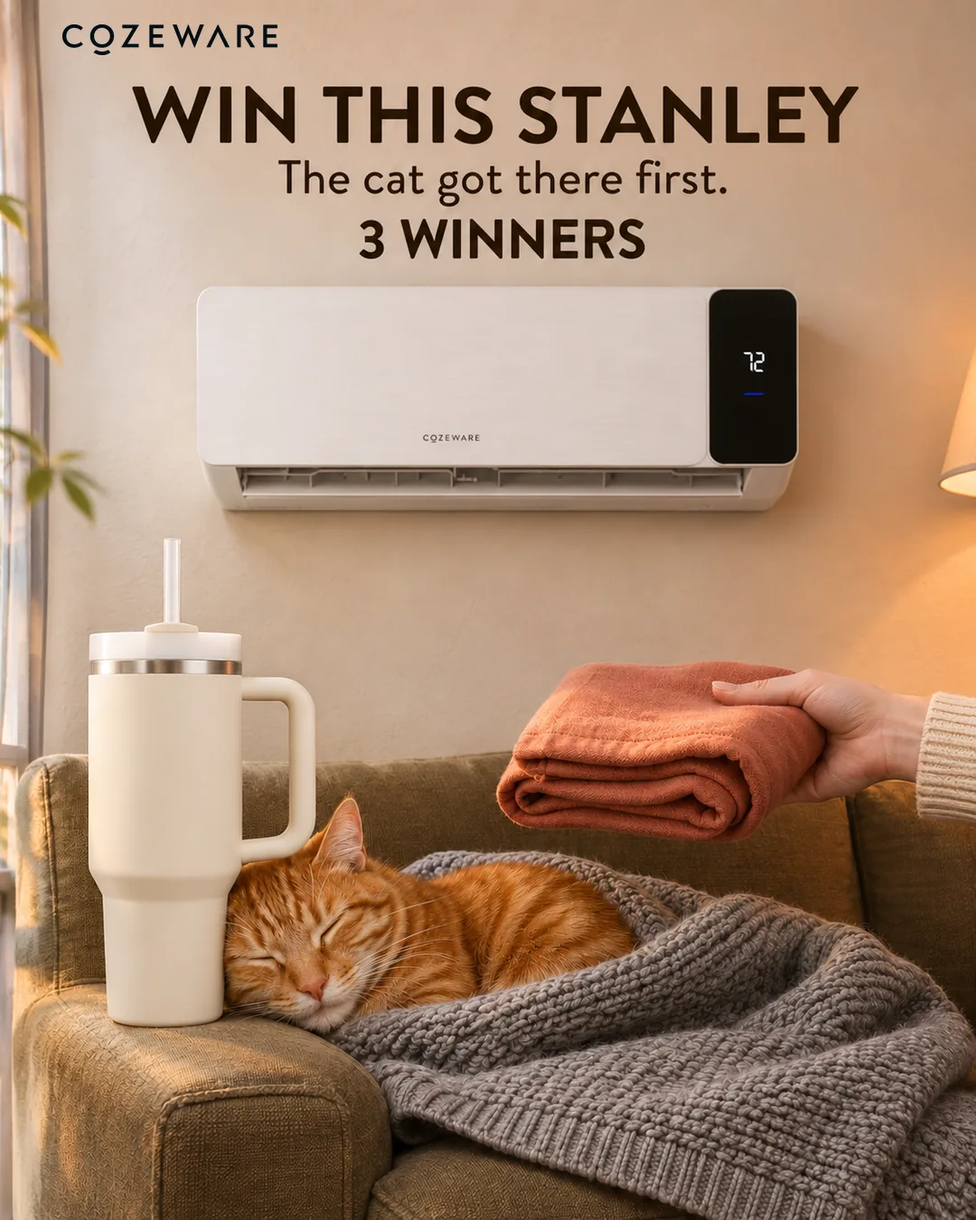
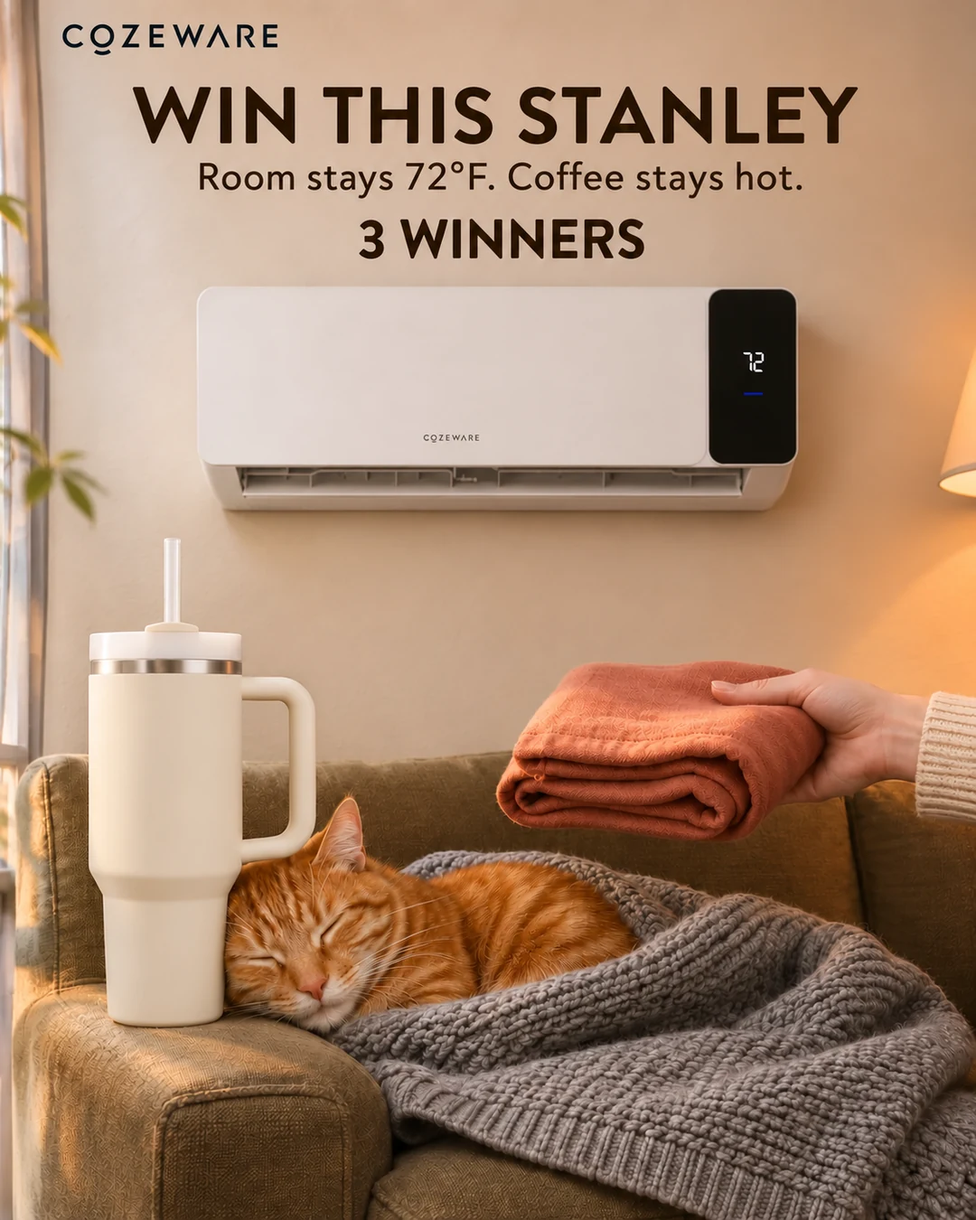
Giveaway round 1: one entry per person, per-platform steps, prize-product hooks, Stanley image subline, set Ready

diff --git a/feed-oedro.html b/feed-oedro.html
@@ -590,59 +590,63 @@ Who in your house uses the step the most?</p></div>
 </section>
 <section class="feed-day" data-date="2026-11-27" id="day-2026-11-27" aria-labelledby="title-2026-11-27">
 <h2 id="title-2026-11-27"><span class="day-date">11月27日</span><span class="day-week">周五</span></h2>
-<article class="post" data-post="OE-1125-GIVEAWAY-LAUNCH" data-purpose="giveaway user-campaign tonneau-cover" data-schedule-status="In review – do not post yet" id="post-OE-1125-GIVEAWAY-LAUNCH">
+<article class="post" data-post="OE-1125-GIVEAWAY-LAUNCH" data-purpose="giveaway user-campaign tonneau-cover" data-schedule-status="Ready to post" id="post-OE-1125-GIVEAWAY-LAUNCH">
 <div class="post-media">
 <button class="feed-large" type="button" aria-label="查看大图" data-title="Giveaway: win a LEGO Ferrari 488 Pista" data-pages="assets/feed/oedro-oe-1125-giveaway-launch/1.webp"><img src="assets/feed/oedro-oe-1125-giveaway-launch/1.webp" alt="Giveaway: win a LEGO Ferrari 488 Pista" width="1080" height="1350" loading="lazy"></button>
 </div>
 <div class="post-body">
 <h3 lang="en">Giveaway: win a LEGO Ferrari 488 Pista</h3>
-<p class="post-context"><span class="post-status" data-status="review">待审 <span lang="en">In review</span></span> · <span lang="en">2026-11-27 12:00 EST</span> · 首发抽奖帖，11月27日发，规则链接在配文里，图上没有规则</p>
+<p class="post-context"><span class="post-status" data-status="ready">可发 <span lang="en">Ready to post</span></span> · <span lang="en">2026-11-27 12:00 EST</span> · 首发抽奖帖，11月27日发，规则链接在配文里，图上没有规则</p>
 <div class="post-platforms"><div class="post-platform-switch" role="group" aria-label="平台"><button type="button" data-platform="Instagram" aria-pressed="true">Instagram</button><button type="button" data-platform="Facebook" aria-pressed="false">Facebook</button><button type="button" data-platform="X" aria-pressed="false">X</button><button type="button" data-platform="Threads" aria-pressed="false">Threads</button></div><button type="button" class="post-copy">复制配文</button></div>
-<div class="post-caption" data-feed-platform="Instagram"><p class="feed-caption" lang="en">There&#x27;s always one friend who says they&#x27;re &quot;just looking&quot; and then holds the thing for twenty minutes. 🏎
+<div class="post-caption" data-feed-platform="Instagram"><p class="feed-caption" lang="en">You upgrade your truck one part at a time. This one you build one brick at a time.
 
-We parked a LEGO® Technic Ferrari 488 Pista on one of our tonneau covers, and that is exactly what happened. Three of you will each win a set of your own.
+Three of you will each win a LEGO® Technic Ferrari 488 Pista. 🏎
 
-Tell us in the comments: who&#x27;s the friend that can&#x27;t walk past a truck bed without touching everything on it? 👇
+How to enter:
+1. Follow @oedroautoparts
+2. Like this post
+3. Comment and tag one friend who would build it first
 
-To enter, follow us, like this post and tag that friend in a comment. Share this post to your Instagram Story and tag @oedroautoparts for a second entry.
-Free to enter, no purchase necessary. Open to legal residents of the 48 contiguous states and DC, 18 or older and of legal age where they live. Ends Dec 1 at 11:59 p.m. ET.
-Not sponsored or endorsed by Instagram, LEGO or Ferrari.
-Full rules: https://docs.google.com/document/d/e/2PACX-1vTVTzLQbo1QuHDgQ35lVmwLayXdMdV7gTEt_JbZuzMsi030L79SKqfQ4Pwmyk17sBf4nWmCCtIYP62_/pub
+No purchase necessary. One entry per person. Open to the 48 contiguous states and DC, 18 or older. Ends Dec 1, 11:59 p.m. ET. Not sponsored by Instagram/Meta, LEGO or Ferrari.
+Official rules: link in bio
 
-#OEDRO #Giveaway #LEGOTechnic #Ferrari488Pista #TruckLife</p></div>
-<div class="post-caption" data-feed-platform="Facebook" hidden><p class="feed-caption" lang="en">There&#x27;s always one friend who says they&#x27;re &quot;just looking&quot; and then holds the thing for twenty minutes.
+#OEDROGiveaway #Giveaway #TruckLife</p></div>
+<div class="post-caption" data-feed-platform="Facebook" hidden><p class="feed-caption" lang="en">You upgrade your truck one part at a time. This one you build one brick at a time.
 
-We parked a LEGO® Technic Ferrari 488 Pista on one of our tonneau covers, and that is exactly what happened. Three of you will each win a set of your own.
+Three of you will each win a LEGO® Technic Ferrari 488 Pista.
 
-Tell us in the comments: who&#x27;s the friend that can&#x27;t walk past a truck bed without touching everything on it?
+How to enter:
+1. Follow our OEDRO page
+2. Like this post
+3. Comment: what&#x27;s the last thing you built in the garage?
 
-To enter, follow our OEDRO page, like this post and tag that friend by writing their name in a comment.
-Free to enter, no purchase necessary. Open to legal residents of the 48 contiguous states and DC, 18 or older and of legal age where they live. Ends Dec 1 at 11:59 p.m. ET.
-Not sponsored or endorsed by Facebook, LEGO or Ferrari.
-Full rules: https://docs.google.com/document/d/e/2PACX-1vTVTzLQbo1QuHDgQ35lVmwLayXdMdV7gTEt_JbZuzMsi030L79SKqfQ4Pwmyk17sBf4nWmCCtIYP62_/pub</p></div>
-<div class="post-caption" data-feed-platform="X" hidden><p class="feed-caption" lang="en">A friend who&#x27;s &quot;just looking&quot; at the LEGO® Technic Ferrari on our tonneau cover is never just looking. Three of you win one. Follow @Oedroautoparts, like this and reply tagging that friend. Free, no purchase necessary, ends Dec 1, 11:59 p.m. ET. Rules: https://docs.google.com/document/d/e/2PACX-1vTVTzLQbo1QuHDgQ35lVmwLayXdMdV7gTEt_JbZuzMsi030L79SKqfQ4Pwmyk17sBf4nWmCCtIYP62_/pub</p></div>
-<div class="post-caption" data-feed-platform="Threads" hidden><p class="feed-caption" lang="en">Every driveway has a friend who&#x27;s &quot;just looking&quot; at the new thing and then holds it for twenty minutes. We parked a LEGO® Technic Ferrari 488 Pista on our tonneau cover and it happened again. Three of you win one.
+No purchase necessary. One entry per person. Open to the 48 contiguous states and DC, 18 or older. Ends Dec 1, 11:59 p.m. ET. Not sponsored by Facebook/Meta, LEGO or Ferrari.
+Official rules: https://docs.google.com/document/d/e/2PACX-1vTVTzLQbo1QuHDgQ35lVmwLayXdMdV7gTEt_JbZuzMsi030L79SKqfQ4Pwmyk17sBf4nWmCCtIYP62_/pub</p></div>
+<div class="post-caption" data-feed-platform="X" hidden><p class="feed-caption" lang="en">You upgrade your truck one part at a time. This one you build one brick at a time. Win a LEGO® Technic Ferrari 488 Pista. Follow @Oedroautoparts, like and repost. One entry each. No purchase necessary. US, 18 or older. Ends Dec 1, 11:59 p.m. ET. Rules: https://docs.google.com/document/d/e/2PACX-1vTVTzLQbo1QuHDgQ35lVmwLayXdMdV7gTEt_JbZuzMsi030L79SKqfQ4Pwmyk17sBf4nWmCCtIYP62_/pub</p></div>
+<div class="post-caption" data-feed-platform="Threads" hidden><p class="feed-caption" lang="en">You upgrade your truck one part at a time. This one you build one brick at a time.
 
-Follow @oedroautoparts, like this post and reply tagging that friend. Free to enter, no purchase necessary, ends Dec 1 at 11:59 p.m. ET. Full rules: https://docs.google.com/document/d/e/2PACX-1vTVTzLQbo1QuHDgQ35lVmwLayXdMdV7gTEt_JbZuzMsi030L79SKqfQ4Pwmyk17sBf4nWmCCtIYP62_/pub</p></div>
+Win a LEGO® Technic Ferrari 488 Pista. Follow @oedroautoparts, like this post and reply to enter.
+
+No purchase necessary. One entry per person. Open to the 48 contiguous states and DC, 18 or older. Ends Dec 1, 11:59 p.m. ET. Official rules: https://docs.google.com/document/d/e/2PACX-1vTVTzLQbo1QuHDgQ35lVmwLayXdMdV7gTEt_JbZuzMsi030L79SKqfQ4Pwmyk17sBf4nWmCCtIYP62_/pub</p></div>
 <p class="post-links"><a href="https://hsbrxlb.github.io/user-ops-hub/assets/feed/oedro-oe-1125-giveaway-launch/1.webp" lang="en">Images</a></p>
 </div>
 </article>
-<article class="post" data-post="OE-1125-GIVEAWAY-STORY" data-purpose="giveaway user-campaign floor-mats" data-schedule-status="In review – do not post yet" id="post-OE-1125-GIVEAWAY-STORY">
+<article class="post" data-post="OE-1125-GIVEAWAY-STORY" data-purpose="giveaway user-campaign floor-mats" data-schedule-status="Ready to post" id="post-OE-1125-GIVEAWAY-STORY">
 <div class="post-media">
 <button class="feed-large" type="button" aria-label="查看大图" data-title="Giveaway story: win a LEGO Ferrari" data-pages="assets/feed/oedro-oe-1125-giveaway-story/1.webp"><img src="assets/feed/oedro-oe-1125-giveaway-story/1.webp" alt="Giveaway story: win a LEGO Ferrari" width="1080" height="1920" loading="lazy"></button>
 </div>
 <div class="post-body">
 <h3 lang="en">Giveaway story: win a LEGO Ferrari</h3>
-<p class="post-context"><span class="post-status" data-status="review">待审 <span lang="en">In review</span></span> · <span lang="en">2026-11-27 12:30 EST</span> · <span class="post-placement" lang="en">Instagram Stories</span> · 首发快拍，发完首发帖后30分钟发，规则链接放链接贴纸</p>
+<p class="post-context"><span class="post-status" data-status="ready">可发 <span lang="en">Ready to post</span></span> · <span lang="en">2026-11-27 12:30 EST</span> · <span class="post-placement" lang="en">Instagram Stories</span> · 首发快拍，发完首发帖后30分钟发，规则链接放链接贴纸</p>
 <div class="post-platforms"><div class="post-platform-switch" role="group" aria-label="平台"><button type="button" data-platform="Instagram" aria-pressed="true">Instagram</button><button type="button" data-platform="Facebook" aria-pressed="false">Facebook</button><button type="button" data-platform="X" aria-pressed="false">X</button><button type="button" data-platform="Threads" aria-pressed="false">Threads</button></div><button type="button" class="post-copy">复制配文</button></div>
-<div class="post-caption" data-feed-platform="Instagram"><p class="feed-caption" lang="en">A LEGO® Ferrari in the truck, our floor liner underneath. Three of you win one.
-Follow us, like our giveaway post and comment tagging a friend to enter.
-Free, no purchase necessary, ends Dec 1, 11:59 p.m. ET. Rules in the link sticker: https://docs.google.com/document/d/e/2PACX-1vTVTzLQbo1QuHDgQ35lVmwLayXdMdV7gTEt_JbZuzMsi030L79SKqfQ4Pwmyk17sBf4nWmCCtIYP62_/pub</p></div>
-<div class="post-caption" data-feed-platform="Facebook" hidden><p class="feed-caption" lang="en">A LEGO® Ferrari in the truck, our floor liner underneath. Three of you win one.
-Follow our page, like our giveaway post and tag a friend by writing their name in a comment to enter.
-Free, no purchase necessary, ends Dec 1, 11:59 p.m. ET. Rules: https://docs.google.com/document/d/e/2PACX-1vTVTzLQbo1QuHDgQ35lVmwLayXdMdV7gTEt_JbZuzMsi030L79SKqfQ4Pwmyk17sBf4nWmCCtIYP62_/pub</p></div>
-<div class="post-caption" data-feed-platform="X" hidden><p class="feed-caption" lang="en">A LEGO® Ferrari in the truck, our floor liner underneath. Three of you win one. Follow us, like our giveaway post and reply tagging a friend to enter. Free, no purchase necessary, ends Dec 1, 11:59 p.m. ET. Rules: https://docs.google.com/document/d/e/2PACX-1vTVTzLQbo1QuHDgQ35lVmwLayXdMdV7gTEt_JbZuzMsi030L79SKqfQ4Pwmyk17sBf4nWmCCtIYP62_/pub</p></div>
-<div class="post-caption" data-feed-platform="Threads" hidden><p class="feed-caption" lang="en">A LEGO® Ferrari in the truck, our floor liner underneath. Three of you win one. Follow us, like our giveaway post and reply tagging a friend to enter. Free, no purchase necessary, ends Dec 1, 11:59 p.m. ET. Rules: https://docs.google.com/document/d/e/2PACX-1vTVTzLQbo1QuHDgQ35lVmwLayXdMdV7gTEt_JbZuzMsi030L79SKqfQ4Pwmyk17sBf4nWmCCtIYP62_/pub</p></div>
+<div class="post-caption" data-feed-platform="Instagram"><p class="feed-caption" lang="en">LEGO® Ferrari for three of you. You build it one brick at a time.
+One entry per person: follow us, like the giveaway post and comment tagging one friend there.
+No purchase necessary, ends Dec 1, 11:59 p.m. ET. Rules in the link sticker: https://docs.google.com/document/d/e/2PACX-1vTVTzLQbo1QuHDgQ35lVmwLayXdMdV7gTEt_JbZuzMsi030L79SKqfQ4Pwmyk17sBf4nWmCCtIYP62_/pub</p></div>
+<div class="post-caption" data-feed-platform="Facebook" hidden><p class="feed-caption" lang="en">LEGO® Ferrari for three of you. You build it one brick at a time.
+One entry per person: follow our page, like the giveaway post and comment there.
+No purchase necessary, ends Dec 1, 11:59 p.m. ET. Rules: https://docs.google.com/document/d/e/2PACX-1vTVTzLQbo1QuHDgQ35lVmwLayXdMdV7gTEt_JbZuzMsi030L79SKqfQ4Pwmyk17sBf4nWmCCtIYP62_/pub</p></div>
+<div class="post-caption" data-feed-platform="X" hidden><p class="feed-caption" lang="en">LEGO® Ferrari for three of you. You build it one brick at a time. One entry per person: follow us, like the giveaway post and repost it. No purchase necessary, ends Dec 1, 11:59 p.m. ET. Rules: https://docs.google.com/document/d/e/2PACX-1vTVTzLQbo1QuHDgQ35lVmwLayXdMdV7gTEt_JbZuzMsi030L79SKqfQ4Pwmyk17sBf4nWmCCtIYP62_/pub</p></div>
+<div class="post-caption" data-feed-platform="Threads" hidden><p class="feed-caption" lang="en">LEGO® Ferrari for three of you. You build it one brick at a time. One entry per person: follow us, like the giveaway post and reply to it. No purchase necessary, ends Dec 1, 11:59 p.m. ET. Rules: https://docs.google.com/document/d/e/2PACX-1vTVTzLQbo1QuHDgQ35lVmwLayXdMdV7gTEt_JbZuzMsi030L79SKqfQ4Pwmyk17sBf4nWmCCtIYP62_/pub</p></div>
 <p class="post-links"><a href="https://hsbrxlb.github.io/user-ops-hub/assets/feed/oedro-oe-1125-giveaway-story/1.webp" lang="en">Images</a></p>
 </div>
 </article>
@@ -799,40 +803,42 @@ What&#x27;s the tailgate rule nobody is allowed to break?</p></div>
 </section>
 <section class="feed-day" data-date="2026-12-01" id="day-2026-12-01" aria-labelledby="title-2026-12-01">
 <h2 id="title-2026-12-01"><span class="day-date">12月1日</span><span class="day-week">周二</span></h2>
-<article class="post" data-post="OE-1201-GIVEAWAY-REMINDER" data-purpose="giveaway user-campaign" data-schedule-status="In review – do not post yet" id="post-OE-1201-GIVEAWAY-REMINDER">
+<article class="post" data-post="OE-1201-GIVEAWAY-REMINDER" data-purpose="giveaway user-campaign" data-schedule-status="Ready to post" id="post-OE-1201-GIVEAWAY-REMINDER">
 <div class="post-media">
 <button class="feed-large" type="button" aria-label="查看大图" data-title="Last call: LEGO Ferrari giveaway ends tonight" data-pages="assets/feed/oedro-oe-1201-giveaway-reminder/1.webp"><img src="assets/feed/oedro-oe-1201-giveaway-reminder/1.webp" alt="Last call: LEGO Ferrari giveaway ends tonight" width="1080" height="1350" loading="lazy"></button>
 </div>
 <div class="post-body">
 <h3 lang="en">Last call: LEGO Ferrari giveaway ends tonight</h3>
-<p class="post-context"><span class="post-status" data-status="review">待审 <span lang="en">In review</span></span> · <span lang="en">2026-12-01 09:00 EST</span></p>
+<p class="post-context"><span class="post-status" data-status="ready">可发 <span lang="en">Ready to post</span></span> · <span lang="en">2026-12-01 09:00 EST</span></p>
 <div class="post-platforms"><div class="post-platform-switch" role="group" aria-label="平台"><button type="button" data-platform="Instagram" aria-pressed="true">Instagram</button><button type="button" data-platform="Facebook" aria-pressed="false">Facebook</button><button type="button" data-platform="X" aria-pressed="false">X</button><button type="button" data-platform="Threads" aria-pressed="false">Threads</button></div><button type="button" class="post-copy">复制配文</button></div>
-<div class="post-caption" data-feed-platform="Instagram"><p class="feed-caption" lang="en">One of these guys has been checking his watch since lunch, and the other one finds that hilarious. ⏰
+<div class="post-caption" data-feed-platform="Instagram"><p class="feed-caption" lang="en">One of these guys has been checking his watch since lunch, and the other finds that hilarious. ⏰
 
-Our giveaway closes tonight. At 11:59 p.m. ET we close the entries, and three of you will each win a LEGO® Technic Ferrari 488 Pista. It&#x27;s still parked on our tonneau cover, waiting on three new garages.
+Last call: three of you win a LEGO® Technic Ferrari 488 Pista, built one brick at a time. Entries close tonight.
 
-Haven&#x27;t entered yet? Tell us on the giveaway post: which friend has your tailgate down before you&#x27;ve even parked? 👇
+How to enter:
+1. Follow @oedroautoparts
+2. Like the giveaway post
+3. Comment on it tagging one friend
 
-To enter, follow us, like this giveaway post and tag that friend in a comment. Share the giveaway post to your Instagram Story and tag @oedroautoparts for a second entry.
-Free to enter, no purchase necessary. Open to legal residents of the 48 contiguous states and DC, 18 or older and of legal age where they live. Ends tonight, Dec 1, at 11:59 p.m. ET.
-Not sponsored or endorsed by Instagram, LEGO or Ferrari.
-Full rules: https://docs.google.com/document/d/e/2PACX-1vTVTzLQbo1QuHDgQ35lVmwLayXdMdV7gTEt_JbZuzMsi030L79SKqfQ4Pwmyk17sBf4nWmCCtIYP62_/pub
+No purchase necessary. One entry per person. Open to the 48 contiguous states and DC, 18 or older. Ends tonight, Dec 1, at 11:59 p.m. ET. Not sponsored by Instagram/Meta, LEGO or Ferrari.
+Official rules: link in bio
 
-#OEDRO #Giveaway #LEGOTechnic #LastCall</p></div>
-<div class="post-caption" data-feed-platform="Facebook" hidden><p class="feed-caption" lang="en">One of these guys has been checking his watch since lunch, and the other one finds that hilarious.
+#OEDROGiveaway #Giveaway #TruckLife</p></div>
+<div class="post-caption" data-feed-platform="Facebook" hidden><p class="feed-caption" lang="en">One of these guys has been checking his watch since lunch, and the other finds that hilarious.
 
-Our giveaway closes tonight. At 11:59 p.m. ET we close the entries, and three of you will each win a LEGO® Technic Ferrari 488 Pista. It&#x27;s still parked on our tonneau cover, waiting on three new garages.
+Last call: three of you win a LEGO® Technic Ferrari 488 Pista, built one brick at a time. Entries close tonight.
 
-Haven&#x27;t entered yet? Tell us on the giveaway post: which friend has your tailgate down before you&#x27;ve even parked?
+How to enter:
+1. Follow our OEDRO page
+2. Like the giveaway post
+3. Comment on it
 
-To enter, follow our OEDRO page, like the giveaway post and tag that friend by writing their name in a comment.
-Free to enter, no purchase necessary. Open to legal residents of the 48 contiguous states and DC, 18 or older and of legal age where they live. Ends tonight, Dec 1, at 11:59 p.m. ET.
-Not sponsored or endorsed by Facebook, LEGO or Ferrari.
-Full rules: https://docs.google.com/document/d/e/2PACX-1vTVTzLQbo1QuHDgQ35lVmwLayXdMdV7gTEt_JbZuzMsi030L79SKqfQ4Pwmyk17sBf4nWmCCtIYP62_/pub</p></div>
-<div class="post-caption" data-feed-platform="X" hidden><p class="feed-caption" lang="en">Giveaway closes tonight, Dec 1, at 11:59 p.m. ET. Three of you win a LEGO® Technic Ferrari 488 Pista. Follow @Oedroautoparts, like the giveaway post and reply tagging a friend. Free, no purchase necessary. Rules: https://docs.google.com/document/d/e/2PACX-1vTVTzLQbo1QuHDgQ35lVmwLayXdMdV7gTEt_JbZuzMsi030L79SKqfQ4Pwmyk17sBf4nWmCCtIYP62_/pub</p></div>
-<div class="post-caption" data-feed-platform="Threads" hidden><p class="feed-caption" lang="en">One guy has been checking his watch since lunch while his buddy laughs. Our LEGO® Technic Ferrari 488 Pista giveaway closes tonight, and three of you will win one.
+No purchase necessary. One entry per person. Open to the 48 contiguous states and DC, 18 or older. Ends tonight, Dec 1, at 11:59 p.m. ET. Not sponsored by Facebook/Meta, LEGO or Ferrari.
+Official rules: https://docs.google.com/document/d/e/2PACX-1vTVTzLQbo1QuHDgQ35lVmwLayXdMdV7gTEt_JbZuzMsi030L79SKqfQ4Pwmyk17sBf4nWmCCtIYP62_/pub</p></div>
+<div class="post-caption" data-feed-platform="X" hidden><p class="feed-caption" lang="en">Last call: three of you win a LEGO® Technic Ferrari 488 Pista, built one brick at a time. Follow @Oedroautoparts, like the giveaway post and repost it. One entry per person, no purchase necessary, ends tonight, Dec 1, 11:59 p.m. ET. Rules: https://docs.google.com/document/d/e/2PACX-1vTVTzLQbo1QuHDgQ35lVmwLayXdMdV7gTEt_JbZuzMsi030L79SKqfQ4Pwmyk17sBf4nWmCCtIYP62_/pub</p></div>
+<div class="post-caption" data-feed-platform="Threads" hidden><p class="feed-caption" lang="en">Last call: three of you win a LEGO® Technic Ferrari 488 Pista, built one brick at a time. Follow @oedroautoparts, like the giveaway post and reply to it.
 
-Follow @oedroautoparts, like the giveaway post and reply tagging a friend. Free to enter, no purchase necessary, ends tonight, Dec 1, at 11:59 p.m. ET. Full rules: https://docs.google.com/document/d/e/2PACX-1vTVTzLQbo1QuHDgQ35lVmwLayXdMdV7gTEt_JbZuzMsi030L79SKqfQ4Pwmyk17sBf4nWmCCtIYP62_/pub</p></div>
+No purchase necessary. One entry per person. Open to the 48 contiguous states and DC, 18 or older. Ends tonight, Dec 1, at 11:59 p.m. ET. Official rules: https://docs.google.com/document/d/e/2PACX-1vTVTzLQbo1QuHDgQ35lVmwLayXdMdV7gTEt_JbZuzMsi030L79SKqfQ4Pwmyk17sBf4nWmCCtIYP62_/pub</p></div>
 <p class="post-links"><a href="https://hsbrxlb.github.io/user-ops-hub/assets/feed/oedro-oe-1201-giveaway-reminder/1.webp" lang="en">Images</a></p>
 </div>
 </article>

diff --git a/feed-cozeware.html b/feed-cozeware.html
@@ -383,59 +383,63 @@ How many hours was your longest session?</p></div>
 </section>
 <section class="feed-day" data-date="2026-11-27" id="day-2026-11-27" aria-labelledby="title-2026-11-27">
 <h2 id="title-2026-11-27"><span class="day-date">11月27日</span><span class="day-week">周五</span></h2>
-<article class="post" data-post="CZ-1125-GIVEAWAY-LAUNCH" data-purpose="giveaway user-campaign ac" data-schedule-status="In review – do not post yet" id="post-CZ-1125-GIVEAWAY-LAUNCH">
+<article class="post" data-post="CZ-1125-GIVEAWAY-LAUNCH" data-purpose="giveaway user-campaign ac" data-schedule-status="Ready to post" id="post-CZ-1125-GIVEAWAY-LAUNCH">
 <div class="post-media">
 <button class="feed-large" type="button" aria-label="查看大图" data-title="Giveaway: win a Stanley Quencher" data-pages="assets/feed/cozeware-ac-cz-1125-giveaway-launch/1.webp"><img src="assets/feed/cozeware-ac-cz-1125-giveaway-launch/1.webp" alt="Giveaway: win a Stanley Quencher" width="1080" height="1350" loading="lazy"></button>
 </div>
 <div class="post-body">
 <h3 lang="en">Giveaway: win a Stanley Quencher</h3>
-<p class="post-context"><span class="post-status" data-status="review">待审 <span lang="en">In review</span></span> · <span lang="en">2026-11-27 12:00 EST</span> · 首发抽奖帖，11月27日发，规则链接在配文里，图上没有规则</p>
+<p class="post-context"><span class="post-status" data-status="ready">可发 <span lang="en">Ready to post</span></span> · <span lang="en">2026-11-27 12:00 EST</span> · 首发抽奖帖，11月27日发，规则链接在配文里，图上没有规则</p>
 <div class="post-platforms"><div class="post-platform-switch" role="group" aria-label="平台"><button type="button" data-platform="Instagram" aria-pressed="true">Instagram</button><button type="button" data-platform="Facebook" aria-pressed="false">Facebook</button><button type="button" data-platform="X" aria-pressed="false">X</button><button type="button" data-platform="Threads" aria-pressed="false">Threads</button></div><button type="button" class="post-copy">复制配文</button></div>
-<div class="post-caption" data-feed-platform="Instagram"><p class="feed-caption" lang="en">You shouldn&#x27;t have to wake a sleeping cat just to reach your water. 🐈
+<div class="post-caption" data-feed-platform="Instagram"><p class="feed-caption" lang="en">Your Cozeware keeps the room just right. This Stanley keeps your drink just right.
 
-So we&#x27;re sending three of you a cup of your own: a Stanley Quencher H2.0 FlowState Tumbler, 40 oz, one for each winner. Ours is on the sofa arm, and the cat has already claimed it.
+Three of you will each win a Stanley Quencher H2.0 FlowState Tumbler, 40 oz. ☕
 
-Tell us in the comments: what would you offer your cat to get your cup back? 👇
+How to enter:
+1. Follow @cozeware
+2. Like this post
+3. Comment and tag one friend who needs one
 
-To enter, follow us, like this post and tag one friend in a comment. Share this post to your Instagram Story and tag @cozeware for a second entry.
-Free to enter, no purchase necessary. Open to legal residents of the 48 contiguous states and DC, 18 or older and of legal age where they live. Ends Dec 1 at 11:59 p.m. ET.
-Not sponsored or endorsed by Instagram or Stanley.
-Full rules: https://docs.google.com/document/d/e/2PACX-1vSwZRbZrCTI3KDqqRJoG4kTua6yApjQf0kZZ59c3eEgL8usKZe7TcieI41_sW6fOPFJgLnOfmfHs7OM/pub
+No purchase necessary. One entry per person. Open to the 48 contiguous states and DC, 18 or older. Ends Dec 1, 11:59 p.m. ET. Not sponsored by Instagram/Meta or Stanley.
+Official rules: link in bio
 
-#Cozeware #Giveaway #StanleyQuencher #CozyHome</p></div>
-<div class="post-caption" data-feed-platform="Facebook" hidden><p class="feed-caption" lang="en">You shouldn&#x27;t have to wake a sleeping cat just to reach your water.
+#CozewareGiveaway #Giveaway #CozyHome</p></div>
+<div class="post-caption" data-feed-platform="Facebook" hidden><p class="feed-caption" lang="en">Your Cozeware keeps the room just right. This Stanley keeps your drink just right.
 
-So we&#x27;re sending three of you a cup of your own: a Stanley Quencher H2.0 FlowState Tumbler, 40 oz, one for each winner. Ours is on the sofa arm, and the cat has already claimed it.
+Three of you will each win a Stanley Quencher H2.0 FlowState Tumbler, 40 oz.
 
-Tell us in the comments: what would you offer your cat to get your cup back?
+How to enter:
+1. Follow our Cozeware page
+2. Like this post
+3. Comment: what&#x27;s your go-to drink on the sofa?
 
-To enter, follow our Cozeware page, like this post and tag a friend by writing their name in a comment.
-Free to enter, no purchase necessary. Open to legal residents of the 48 contiguous states and DC, 18 or older and of legal age where they live. Ends Dec 1 at 11:59 p.m. ET.
-Not sponsored or endorsed by Facebook or Stanley.
-Full rules: https://docs.google.com/document/d/e/2PACX-1vSwZRbZrCTI3KDqqRJoG4kTua6yApjQf0kZZ59c3eEgL8usKZe7TcieI41_sW6fOPFJgLnOfmfHs7OM/pub</p></div>
-<div class="post-caption" data-feed-platform="X" hidden><p class="feed-caption" lang="en">Never wake a sleeping cat to reach your water. Three of you win a Stanley Quencher H2.0 FlowState Tumbler, 40 oz. Follow @cozeware, like this and reply tagging a friend. Free, no purchase necessary, ends Dec 1, 11:59 p.m. ET. Rules: https://docs.google.com/document/d/e/2PACX-1vSwZRbZrCTI3KDqqRJoG4kTua6yApjQf0kZZ59c3eEgL8usKZe7TcieI41_sW6fOPFJgLnOfmfHs7OM/pub</p></div>
-<div class="post-caption" data-feed-platform="Threads" hidden><p class="feed-caption" lang="en">You shouldn&#x27;t have to wake a sleeping cat just to reach your water. Three of you win a Stanley Quencher H2.0 FlowState Tumbler, 40 oz, and ours is already claimed by the cat. What would you offer yours for the cup?
+No purchase necessary. One entry per person. Open to the 48 contiguous states and DC, 18 or older. Ends Dec 1, 11:59 p.m. ET. Not sponsored by Facebook/Meta or Stanley.
+Official rules: https://docs.google.com/document/d/e/2PACX-1vSwZRbZrCTI3KDqqRJoG4kTua6yApjQf0kZZ59c3eEgL8usKZe7TcieI41_sW6fOPFJgLnOfmfHs7OM/pub</p></div>
+<div class="post-caption" data-feed-platform="X" hidden><p class="feed-caption" lang="en">Your Cozeware keeps the room just right. This Stanley keeps your drink just right. Win a Stanley Quencher H2.0 FlowState 40 oz. Follow @cozeware, like and repost. One entry each. No purchase necessary. US, 18 or older. Ends Dec 1, 11:59 p.m. ET. Rules: https://docs.google.com/document/d/e/2PACX-1vSwZRbZrCTI3KDqqRJoG4kTua6yApjQf0kZZ59c3eEgL8usKZe7TcieI41_sW6fOPFJgLnOfmfHs7OM/pub</p></div>
+<div class="post-caption" data-feed-platform="Threads" hidden><p class="feed-caption" lang="en">Your Cozeware keeps the room just right. This Stanley keeps your drink just right.
 
-Follow @cozeware, like this post and reply tagging a friend. Free to enter, no purchase necessary, ends Dec 1 at 11:59 p.m. ET. Full rules: https://docs.google.com/document/d/e/2PACX-1vSwZRbZrCTI3KDqqRJoG4kTua6yApjQf0kZZ59c3eEgL8usKZe7TcieI41_sW6fOPFJgLnOfmfHs7OM/pub</p></div>
+Win a Stanley Quencher H2.0 FlowState 40 oz. Follow @cozeware, like this post and reply to enter.
+
+No purchase necessary. One entry per person. Open to the 48 contiguous states and DC, 18 or older. Ends Dec 1, 11:59 p.m. ET. Official rules: https://docs.google.com/document/d/e/2PACX-1vSwZRbZrCTI3KDqqRJoG4kTua6yApjQf0kZZ59c3eEgL8usKZe7TcieI41_sW6fOPFJgLnOfmfHs7OM/pub</p></div>
 <p class="post-links"><a href="https://hsbrxlb.github.io/user-ops-hub/assets/feed/cozeware-ac-cz-1125-giveaway-launch/1.webp" lang="en">Images</a></p>
 </div>
 </article>
-<article class="post" data-post="CZ-1125-GIVEAWAY-STORY" data-purpose="giveaway user-campaign ac" data-schedule-status="In review – do not post yet" id="post-CZ-1125-GIVEAWAY-STORY">
+<article class="post" data-post="CZ-1125-GIVEAWAY-STORY" data-purpose="giveaway user-campaign ac" data-schedule-status="Ready to post" id="post-CZ-1125-GIVEAWAY-STORY">
 <div class="post-media">
 <button class="feed-large" type="button" aria-label="查看大图" data-title="Giveaway story: win a Stanley Quencher" data-pages="assets/feed/cozeware-ac-cz-1125-giveaway-story/1.webp"><img src="assets/feed/cozeware-ac-cz-1125-giveaway-story/1.webp" alt="Giveaway story: win a Stanley Quencher" width="1080" height="1920" loading="lazy"></button>
 </div>
 <div class="post-body">
 <h3 lang="en">Giveaway story: win a Stanley Quencher</h3>
-<p class="post-context"><span class="post-status" data-status="review">待审 <span lang="en">In review</span></span> · <span lang="en">2026-11-27 12:30 EST</span> · <span class="post-placement" lang="en">Instagram Stories</span> · 首发快拍，发完首发帖后30分钟发，规则链接放链接贴纸</p>
+<p class="post-context"><span class="post-status" data-status="ready">可发 <span lang="en">Ready to post</span></span> · <span lang="en">2026-11-27 12:30 EST</span> · <span class="post-placement" lang="en">Instagram Stories</span> · 首发快拍，发完首发帖后30分钟发，规则链接放链接贴纸</p>
 <div class="post-platforms"><div class="post-platform-switch" role="group" aria-label="平台"><button type="button" data-platform="Instagram" aria-pressed="true">Instagram</button><button type="button" data-platform="Facebook" aria-pressed="false">Facebook</button><button type="button" data-platform="X" aria-pressed="false">X</button><button type="button" data-platform="Threads" aria-pressed="false">Threads</button></div><button type="button" class="post-copy">复制配文</button></div>
-<div class="post-caption" data-feed-platform="Instagram"><p class="feed-caption" lang="en">Blanket, sofa, and now a cup to match. Three of you win a Stanley Quencher 40 oz.
-Follow us, like our giveaway post and comment tagging a friend to enter.
-Free, no purchase necessary, ends Dec 1, 11:59 p.m. ET. Rules in the link sticker: https://docs.google.com/document/d/e/2PACX-1vSwZRbZrCTI3KDqqRJoG4kTua6yApjQf0kZZ59c3eEgL8usKZe7TcieI41_sW6fOPFJgLnOfmfHs7OM/pub</p></div>
-<div class="post-caption" data-feed-platform="Facebook" hidden><p class="feed-caption" lang="en">Blanket, sofa, and now a cup to match. Three of you win a Stanley Quencher 40 oz.
-Follow our page, like our giveaway post and tag a friend by writing their name in a comment to enter.
-Free, no purchase necessary, ends Dec 1, 11:59 p.m. ET. Rules: https://docs.google.com/document/d/e/2PACX-1vSwZRbZrCTI3KDqqRJoG4kTua6yApjQf0kZZ59c3eEgL8usKZe7TcieI41_sW6fOPFJgLnOfmfHs7OM/pub</p></div>
-<div class="post-caption" data-feed-platform="X" hidden><p class="feed-caption" lang="en">Blanket, sofa, and now a cup to match. Three of you win a Stanley Quencher 40 oz. Follow us, like our giveaway post and reply tagging a friend to enter. Free, no purchase necessary, ends Dec 1, 11:59 p.m. ET. Rules: https://docs.google.com/document/d/e/2PACX-1vSwZRbZrCTI3KDqqRJoG4kTua6yApjQf0kZZ59c3eEgL8usKZe7TcieI41_sW6fOPFJgLnOfmfHs7OM/pub</p></div>
-<div class="post-caption" data-feed-platform="Threads" hidden><p class="feed-caption" lang="en">Blanket, sofa, and now a cup to match. Three of you win a Stanley Quencher 40 oz. Follow us, like our giveaway post and reply tagging a friend to enter. Free, no purchase necessary, ends Dec 1, 11:59 p.m. ET. Rules: https://docs.google.com/document/d/e/2PACX-1vSwZRbZrCTI3KDqqRJoG4kTua6yApjQf0kZZ59c3eEgL8usKZe7TcieI41_sW6fOPFJgLnOfmfHs7OM/pub</p></div>
+<div class="post-caption" data-feed-platform="Instagram"><p class="feed-caption" lang="en">Stanley Quencher 40 oz for three of you. It keeps your drink just right.
+One entry per person: follow us, like the giveaway post and comment tagging one friend there.
+No purchase necessary, ends Dec 1, 11:59 p.m. ET. Rules in the link sticker: https://docs.google.com/document/d/e/2PACX-1vSwZRbZrCTI3KDqqRJoG4kTua6yApjQf0kZZ59c3eEgL8usKZe7TcieI41_sW6fOPFJgLnOfmfHs7OM/pub</p></div>
+<div class="post-caption" data-feed-platform="Facebook" hidden><p class="feed-caption" lang="en">Stanley Quencher 40 oz for three of you. It keeps your drink just right.
+One entry per person: follow our page, like the giveaway post and comment there.
+No purchase necessary, ends Dec 1, 11:59 p.m. ET. Rules: https://docs.google.com/document/d/e/2PACX-1vSwZRbZrCTI3KDqqRJoG4kTua6yApjQf0kZZ59c3eEgL8usKZe7TcieI41_sW6fOPFJgLnOfmfHs7OM/pub</p></div>
+<div class="post-caption" data-feed-platform="X" hidden><p class="feed-caption" lang="en">Stanley Quencher 40 oz for three of you. It keeps your drink just right. One entry per person: follow us, like the giveaway post and repost it. No purchase necessary, ends Dec 1, 11:59 p.m. ET. Rules: https://docs.google.com/document/d/e/2PACX-1vSwZRbZrCTI3KDqqRJoG4kTua6yApjQf0kZZ59c3eEgL8usKZe7TcieI41_sW6fOPFJgLnOfmfHs7OM/pub</p></div>
+<div class="post-caption" data-feed-platform="Threads" hidden><p class="feed-caption" lang="en">Stanley Quencher 40 oz for three of you. It keeps your drink just right. One entry per person: follow us, like the giveaway post and reply to it. No purchase necessary, ends Dec 1, 11:59 p.m. ET. Rules: https://docs.google.com/document/d/e/2PACX-1vSwZRbZrCTI3KDqqRJoG4kTua6yApjQf0kZZ59c3eEgL8usKZe7TcieI41_sW6fOPFJgLnOfmfHs7OM/pub</p></div>
 <p class="post-links"><a href="https://hsbrxlb.github.io/user-ops-hub/assets/feed/cozeware-ac-cz-1125-giveaway-story/1.webp" lang="en">Images</a></p>
 </div>
 </article>
@@ -599,40 +603,42 @@ Read the full preview on Geeky Gadgets: https://www.geeky-gadgets.com/cozeware-f
 </section>
 <section class="feed-day" data-date="2026-12-01" id="day-2026-12-01" aria-labelledby="title-2026-12-01">
 <h2 id="title-2026-12-01"><span class="day-date">12月1日</span><span class="day-week">周二</span></h2>
-<article class="post" data-post="CZ-1201-GIVEAWAY-REMINDER" data-purpose="giveaway user-campaign ac" data-schedule-status="In review – do not post yet" id="post-CZ-1201-GIVEAWAY-REMINDER">
+<article class="post" data-post="CZ-1201-GIVEAWAY-REMINDER" data-purpose="giveaway user-campaign ac" data-schedule-status="Ready to post" id="post-CZ-1201-GIVEAWAY-REMINDER">
 <div class="post-media">
 <button class="feed-large" type="button" aria-label="查看大图" data-title="Last call: Stanley Quencher giveaway ends tonight" data-pages="assets/feed/cozeware-ac-cz-1201-giveaway-reminder/1.webp"><img src="assets/feed/cozeware-ac-cz-1201-giveaway-reminder/1.webp" alt="Last call: Stanley Quencher giveaway ends tonight" width="1080" height="1350" loading="lazy"></button>
 </div>
 <div class="post-body">
 <h3 lang="en">Last call: Stanley Quencher giveaway ends tonight</h3>
-<p class="post-context"><span class="post-status" data-status="review">待审 <span lang="en">In review</span></span> · <span lang="en">2026-12-01 09:00 EST</span></p>
+<p class="post-context"><span class="post-status" data-status="ready">可发 <span lang="en">Ready to post</span></span> · <span lang="en">2026-12-01 09:00 EST</span></p>
 <div class="post-platforms"><div class="post-platform-switch" role="group" aria-label="平台"><button type="button" data-platform="Instagram" aria-pressed="true">Instagram</button><button type="button" data-platform="Facebook" aria-pressed="false">Facebook</button><button type="button" data-platform="X" aria-pressed="false">X</button><button type="button" data-platform="Threads" aria-pressed="false">Threads</button></div><button type="button" class="post-copy">复制配文</button></div>
 <div class="post-caption" data-feed-platform="Instagram"><p class="feed-caption" lang="en">Mid-evening on the sofa: one friend is wrapped in a blanket, the other is laughing about it. ☕
 
-Our giveaway closes tonight at 11:59 p.m. ET. Three of you will each win a Stanley Quencher H2.0 FlowState Tumbler, 40 oz, so nobody has to steal the cup.
+Last call: three of you win a Stanley that keeps your drink just right. Entries close tonight.
 
-Haven&#x27;t entered yet? Tell us on the giveaway post: who gets the warm seat first at your place? 👇
+How to enter:
+1. Follow @cozeware
+2. Like the giveaway post
+3. Comment on it tagging one friend
 
-To enter, follow us, like the giveaway post and tag one friend in a comment. Share the giveaway post to your Instagram Story and tag @cozeware for a second entry.
-Free to enter, no purchase necessary. Open to legal residents of the 48 contiguous states and DC, 18 or older and of legal age where they live. Ends tonight, Dec 1, at 11:59 p.m. ET.
-Not sponsored or endorsed by Instagram or Stanley.
-Full rules: https://docs.google.com/document/d/e/2PACX-1vSwZRbZrCTI3KDqqRJoG4kTua6yApjQf0kZZ59c3eEgL8usKZe7TcieI41_sW6fOPFJgLnOfmfHs7OM/pub
+No purchase necessary. One entry per person. Open to the 48 contiguous states and DC, 18 or older. Ends tonight, Dec 1, at 11:59 p.m. ET. Not sponsored by Instagram/Meta or Stanley.
+Official rules: link in bio
 
-#Cozeware #Giveaway #StanleyQuencher #LastCall</p></div>
+#CozewareGiveaway #Giveaway #CozyHome</p></div>
 <div class="post-caption" data-feed-platform="Facebook" hidden><p class="feed-caption" lang="en">Mid-evening on the sofa: one friend is wrapped in a blanket, the other is laughing about it.
 
-Our giveaway closes tonight at 11:59 p.m. ET. Three of you will each win a Stanley Quencher H2.0 FlowState Tumbler, 40 oz, so nobody has to steal the cup.
+Last call: three of you win a Stanley that keeps your drink just right. Entries close tonight.
 
-Haven&#x27;t entered yet? Tell us on the giveaway post: who gets the warm seat first at your place?
+How to enter:
+1. Follow our Cozeware page
+2. Like the giveaway post
+3. Comment on it
 
-To enter, follow our Cozeware page, like the giveaway post and tag a friend by writing their name in a comment.
-Free to enter, no purchase necessary. Open to legal residents of the 48 contiguous states and DC, 18 or older and of legal age where they live. Ends tonight, Dec 1, at 11:59 p.m. ET.
-Not sponsored or endorsed by Facebook or Stanley.
-Full rules: https://docs.google.com/document/d/e/2PACX-1vSwZRbZrCTI3KDqqRJoG4kTua6yApjQf0kZZ59c3eEgL8usKZe7TcieI41_sW6fOPFJgLnOfmfHs7OM/pub</p></div>
-<div class="post-caption" data-feed-platform="X" hidden><p class="feed-caption" lang="en">Giveaway closes tonight, Dec 1, at 11:59 p.m. ET. Three of you win a Stanley Quencher H2.0 FlowState Tumbler, 40 oz. Follow @cozeware, like the giveaway post and reply tagging a friend. Free, no purchase necessary. Rules: https://docs.google.com/document/d/e/2PACX-1vSwZRbZrCTI3KDqqRJoG4kTua6yApjQf0kZZ59c3eEgL8usKZe7TcieI41_sW6fOPFJgLnOfmfHs7OM/pub</p></div>
-<div class="post-caption" data-feed-platform="Threads" hidden><p class="feed-caption" lang="en">Mid-evening on the sofa: one friend is wrapped in a blanket, the other is laughing about it. Our Stanley Quencher giveaway closes tonight, and three of you will win one.
+No purchase necessary. One entry per person. Open to the 48 contiguous states and DC, 18 or older. Ends tonight, Dec 1, at 11:59 p.m. ET. Not sponsored by Facebook/Meta or Stanley.
+Official rules: https://docs.google.com/document/d/e/2PACX-1vSwZRbZrCTI3KDqqRJoG4kTua6yApjQf0kZZ59c3eEgL8usKZe7TcieI41_sW6fOPFJgLnOfmfHs7OM/pub</p></div>
+<div class="post-caption" data-feed-platform="X" hidden><p class="feed-caption" lang="en">Last call: three of you win a Stanley Quencher H2.0 FlowState 40 oz. Follow @cozeware, like the giveaway post and repost it. One entry per person, no purchase necessary, ends tonight, Dec 1, 11:59 p.m. ET. Rules: https://docs.google.com/document/d/e/2PACX-1vSwZRbZrCTI3KDqqRJoG4kTua6yApjQf0kZZ59c3eEgL8usKZe7TcieI41_sW6fOPFJgLnOfmfHs7OM/pub</p></div>
+<div class="post-caption" data-feed-platform="Threads" hidden><p class="feed-caption" lang="en">Last call: three of you win a Stanley Quencher H2.0 FlowState 40 oz. Follow @cozeware, like the giveaway post and reply to it.
 
-Follow @cozeware, like the giveaway post and reply tagging a friend. Free to enter, no purchase necessary, ends tonight, Dec 1, at 11:59 p.m. ET. Full rules: https://docs.google.com/document/d/e/2PACX-1vSwZRbZrCTI3KDqqRJoG4kTua6yApjQf0kZZ59c3eEgL8usKZe7TcieI41_sW6fOPFJgLnOfmfHs7OM/pub</p></div>
+No purchase necessary. One entry per person. Open to the 48 contiguous states and DC, 18 or older. Ends tonight, Dec 1, at 11:59 p.m. ET. Official rules: https://docs.google.com/document/d/e/2PACX-1vSwZRbZrCTI3KDqqRJoG4kTua6yApjQf0kZZ59c3eEgL8usKZe7TcieI41_sW6fOPFJgLnOfmfHs7OM/pub</p></div>
 <p class="post-links"><a href="https://hsbrxlb.github.io/user-ops-hub/assets/feed/cozeware-ac-cz-1201-giveaway-reminder/1.webp" lang="en">Images</a></p>
 </div>
 </article>
